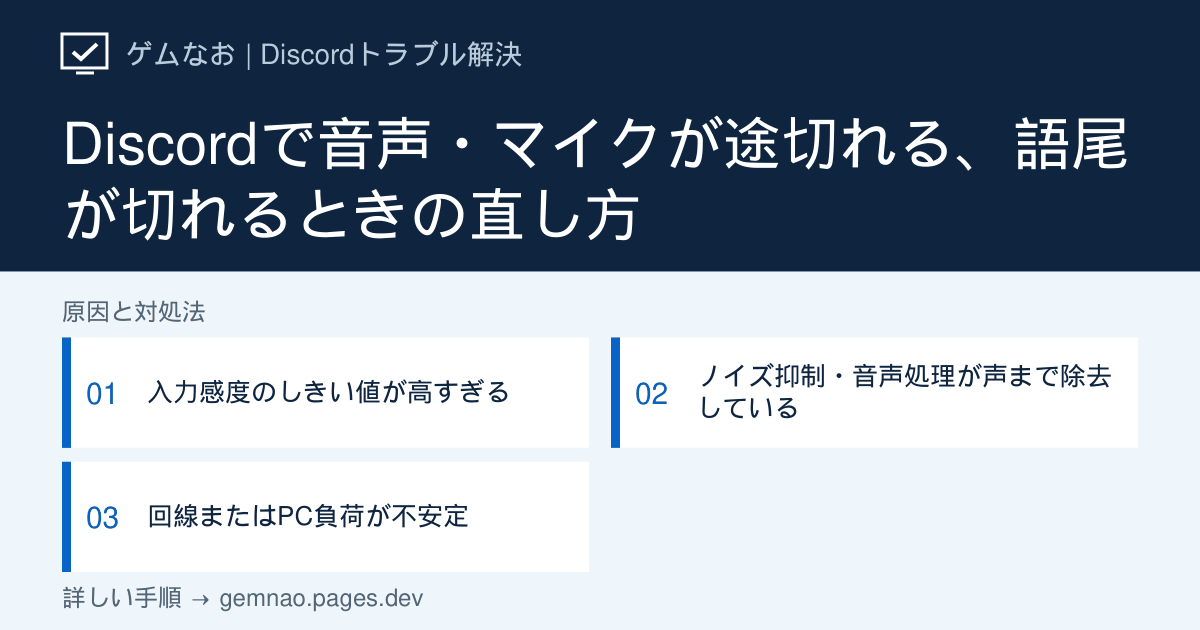
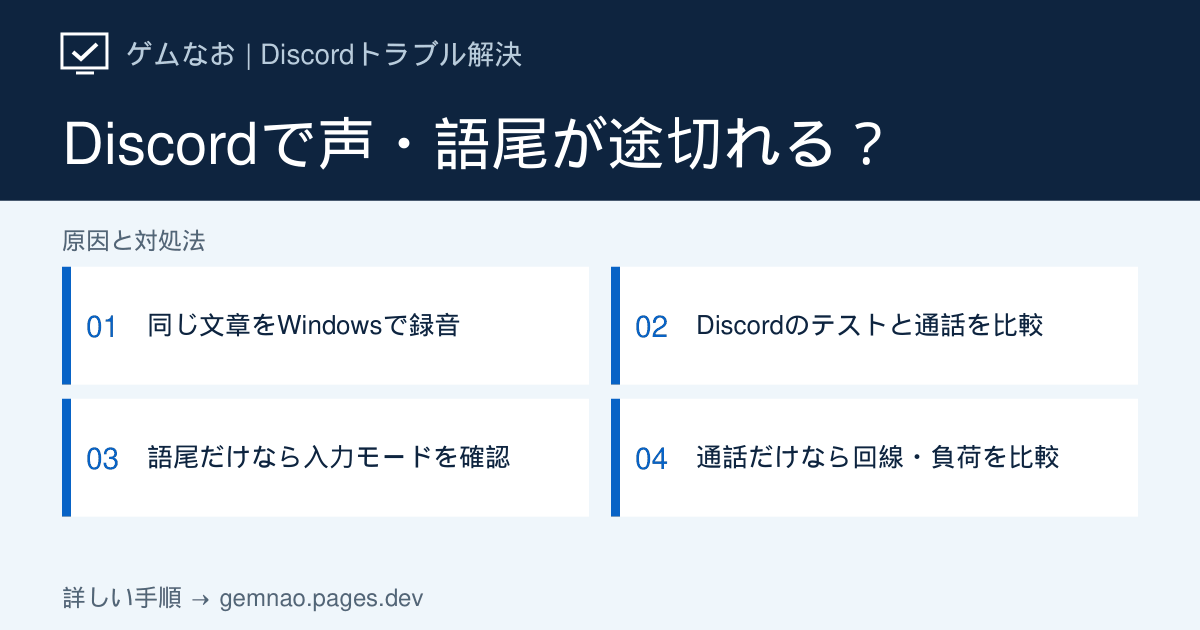
Rewrite Discord voice cutting out guide with comparison steps

diff --git a/lib/discord-audio-growth-articles.ts b/lib/discord-audio-growth-articles.ts
@@ -199,25 +199,100 @@ export const discordAudioGrowthArticles: DiscordArticle[] = [
   },
   {
     slug: 'voice-cutting-out', category: 'audio',
-    title: 'Discordで音声・マイクが途切れる、語尾が切れるときの直し方',
+    title: 'Discordで音声・マイクが途切れる時の直し方【語尾・ゲーム中の症状別】',
     shortTitle: '音声・マイク・語尾が途切れる',
-    seoTitle: 'Discordで音声・マイクが途切れる、語尾が切れる時の対処法',
-    metaDescription: 'Discordで声が途切れる、マイクの語尾が切れる場合の対処法。入力感度、ノイズ抑制、回線、CPU負荷を順番に切り分けます。',
-    symptom: '話し始めや語尾が消える、長く話すと声が断続的に切れる、ゲーム中だけ相手へ声が届かなくなる場合の手順です。',
-    target: 'Windows版 Discordデスクトップアプリ',
-    conclusion: '入力感度を手動調整してマイクテストを行い、ノイズ抑制を切り替えます。続く場合は回線とPC負荷を確認してください。',
-    quickFixes: ['入力感度の自動調整を切り、手動で下げてテストする', 'ノイズ抑制・エコー除去を一つずつ切り替える', '有線接続で試し、PCのCPU使用率を確認する'],
+    seoTitle: 'Discordで音声・マイクが途切れる原因と直し方｜語尾が切れる場合も',
+    metaDescription: 'Discordの声や語尾が途切れる時は、Windows録音・マイクテスト・実際の通話を比較。入力感度の調整目安、ノイズ抑制、プッシュトゥトーク、ゲーム中だけ切れる場合の確認手順を解説します。',
+    symptom: '話し始めや語尾だけ消える、声がぶつぶつ切れる、ゲーム中だけ自分の声が相手に届かない場合の手順です。まず同じマイク・同じ文章で録音と通話を比べ、どこから途切れるかを確認します。',
+    target: 'Windows 11／Windows 10のDiscordデスクトップアプリ',
+    conclusion: 'Windowsの録音でも途切れるならマイクやWindows側、録音は正常でDiscordのテストから切れるなら入力設定を先に確認します。テストは正常なのに通話だけ切れる場合は、誰に途切れて聞こえるかと回線・ゲーム負荷を比較。語尾だけ切れる場合も、音声検出とプッシュトゥトークでは調整する項目が違います。',
+    quickFixes: [
+      '同じマイクで「今日は音声の確認をしています」と録音し、話し始めと語尾が残るか聞く',
+      'Discordのマイクテストでも同じ文章を話し、テストを終了してから通話相手に聞いてもらう',
+      '録音・テスト・通話のどこから切れるかを判定表で確認し、該当する設定だけ変更する',
+    ],
+    diagnosisTitle: '録音・マイクテスト・通話の結果で選ぶ判定表',
+    diagnosisIntro: '同じマイクと口元の距離で比較します。テストが正常でも、実際の通話品質が正常とは限りません。最終確認は通話相手に依頼してください。',
+    diagnosis: [
+      { symptom: 'Windowsの録音から声が途切れる', check: '別のUSB端子・別マイクでも録音が切れる？', causeIndex: 2 },
+      { symptom: '録音は正常／音声検出で小声や語尾だけ切れる', check: '入力感度を調整すると語尾まで届く？', causeIndex: 3 },
+      { symptom: '録音は正常／Discordで声が不規則に欠ける', check: 'ノイズ抑制を1項目だけ変えて比較', causeIndex: 4 },
+      { symptom: 'プッシュトゥトークでキーを離すと語尾が切れる', check: '話し終わるまで押すと届く？', causeIndex: 3 },
+      { symptom: '録音・テストは正常／通話やゲーム中だけ切れる', check: '全員に切れるか、1人だけかを確認', causeIndex: 5 },
+    ],
     causes: [
-      { title: '入力感度のしきい値が高すぎる', description: '小さい声や語尾を無音と判定すると途中で切れます。', actions: ['「音声・ビデオ」で入力感度を確認する', '自動調整をオフにしてしきい値を少し下げる', 'マイクテストで話し始めと語尾を確認する'] },
-      { title: 'ノイズ抑制・音声処理が声まで除去している', description: '環境や声質によって音声処理が強く働く場合があります。', actions: ['ノイズ抑制を一時的にオフにする', 'エコー除去や自動ゲイン制御を一つずつ切り替える', '変更ごとに通話相手へ確認する'] },
-      { title: '回線またはPC負荷が不安定', description: 'パケット損失やCPU高負荷でも音声が断続的になります。', actions: ['有線LANまたは別回線で比較する', 'ダウンロードとクラウド同期を止める', 'タスクマネージャーでCPU使用率を確認する'] },
+      {
+        title: '同じ文章を録音・テスト・通話で比較する',
+        description: '先に音声の入口をそろえると、別のマイクを比較してしまう失敗を避けられます。ここでは通話で自分が話す声を対象にします。',
+        actions: [
+          'Windowsの「設定 → システム → サウンド → 入力」で使うマイク名を確認する。Discord左下の歯車 →「音声・ビデオ」でも同じ入力デバイスを選ぶ',
+          'スタートで「サウンド レコーダー」（Windows 10では「ボイス レコーダー」）を検索して開く。アプリ側でも使用マイクを確認し、録音ボタンで「今日は音声の確認をしています」と普段の声で3回話す',
+          '録音を止めて再生し、最初の「今日は」と最後の「います」が欠けていないか確認する。録音から切れるなら手順2へ',
+          'Discordの「音声・ビデオ」の音声設定からマイクテストを開始し、同じ文章を同じ距離で話す。終わったら「テストを中止」を押す',
+          '実際の通話で同じ文章を話し、相手に欠けた言葉を教えてもらう。録音／テスト／通話の各結果を「正常」「語尾だけ」「全体が断続的」のように記録する',
+        ],
+        note: 'Discord公式によるとマイクテスト中は通話で自動的にミュート・スピーカーミュートになります。通話での比較はテスト終了後に行います。',
+      },
+      {
+        title: 'Windows録音も切れる：接続と使用マイクを確認',
+        description: 'この段階ではDiscordだけの問題とは考えにくく、マイク、接続、Windowsの音声処理、PC負荷を順に比較します。',
+        actions: [
+          'USBマイクはハブを外してPCの別のUSB端子へ直接接続する。ヘッドセットは端子の緩みと本体ミュートを確認する',
+          '入力機器名を確認し直し、同じ文章を再録音する。改善すれば、その接続でDiscord通話も比較する',
+          '別のマイクを使えるなら同じ録音を行う。別マイクだけ正常なら元の機器・接続・専用ソフトを確認し、両方切れるならPC負荷やWindows側を調べる',
+          '機器メーカーの更新案内を確認する。ゲームや録画を閉じると録音が正常になる場合は、手順5で負荷を比較する',
+        ],
+      },
+      {
+        title: '語尾だけ切れる：入力モードに合う項目を調整',
+        description: '音声検出は一定以上の音を送信し、プッシュトゥトークはキーを押している間に送信します。まず「音声・ビデオ」の入力モードを確認してください。',
+        actions: [
+          '音声検出の場合は、現在の状態を控え「入力感度を自動調整」をオフにして手動のスライダーを表示する',
+          '数秒黙った時の背景音と、小さめの声で語尾まで話した時のメーターを見比べる。背景音では送信せず、小声では送信する位置に境界を調整する',
+          '語尾が切れる場合は境界を低い音量側へ少しずつ移す。数値が表示される場合、－50dBから－60dBは小さい音も拾いやすくする方向。数値は操作例であり推奨固定値ではない',
+          'プッシュトゥトークの場合は、話し始める前から語尾を言い終わるまでキーを押し続ける。キーを離した直後だけ切れるなら、解除後に送信を止めるまでの遅延設定を少し延ばして比べる',
+          '変更ごとに同じ文章を通話で話す。語尾が届いても環境音を拾い続けるなら感度を戻し、マイクを口元へ近づけて再調整する',
+        ],
+        note: '感度は音量そのものを大きくする設定ではありません。声全体が小さい場合は関連記事「マイク・自分の声が小さい」へ進んでください。',
+      },
+      {
+        title: 'Discordだけ欠ける：ノイズ抑制を1項目ずつ比較',
+        description: '声と背景音の分離がうまくいかない場合は、音声処理の変更前後を比べます。複数の設定を一度に変えないことが判断のポイントです。',
+        actions: [
+          'Discord左下の歯車 →「音声・ビデオ」→音声設定でノイズ抑制の現在値を控え、一時的にオフにする',
+          '同じ文章をマイクテストで確認し、テストを終了して通話相手にも聞いてもらう。改善したらその設定だけを変更した状態で会話を続けて確かめる',
+          '変化がなければノイズ抑制を元に戻す。エコー除去や自動ゲイン制御が表示される場合も、1項目ずつ同じ方法で比較する',
+          '音声加工ソフトを使っているなら、Discordで物理マイクを直接選んで再比較する。直接選択で直るなら加工ソフト側の音声処理を確認する',
+        ],
+        note: 'エコー除去を切る比較はイヤホンやヘッドホンで行い、相手へ声が反響するようなら元に戻してください。',
+      },
+      {
+        title: '通話・ゲーム中だけ切れる：相手と回線・負荷を比較',
+        description: 'マイクテストはインターネット通話全体の検査ではありません。通話で聞く人の環境や、ゲーム中の条件も含めて比較します。',
+        actions: [
+          '可能なら別の参加者にも同じ発言を聞いてもらう。1人だけ途切れて聞こえるなら、その相手にも通話への再参加・Discord再起動・別回線での比較を依頼する',
+          '全員に途切れて聞こえるなら、自分のダウンロードやクラウド同期を止めて再比較する。Wi-Fiなら可能な範囲で有線または別回線も試す',
+          'ゲーム中だけなら、ゲームを閉じた通話と起動中の通話を比較する。Ctrl＋Shift＋Esc → タスクマネージャーの「パフォーマンス」でCPUなどが起動中だけ高止まりするか確認する',
+          '録画や不要なアプリを1つずつ閉じて会話を比較する。CPU使用率だけで原因を決めず、処理を止めた時に音切れも改善するかを見る',
+          'プッシュトゥトークがゲーム中だけ反応しない場合は、キー重複や権限差を確認し、関連記事「システムヘルパー」へ。ボイスチャンネルから退出してしまう場合は「通話が切れる・落ちる」へ進む',
+        ],
+      },
     ],
-    ifNotFixed: 'Windowsの録音でも途切れる場合はマイク・USB接続・ドライバー側です。Discordだけなら音声設定をリセットして入力機器を選び直してください。',
+    ifNotFixed: '録音・マイクテスト・実通話の結果、切れる言葉、入力モード、マイク名、ゲーム起動の有無、設定変更前後の差を控えてください。音声設定のリセットを試す場合は、入力／出力機器、音量、キー割り当てを先に記録し、リセット後に選び直して同じ文章で確認します。',
     faqs: [
-      { question: '語尾だけ切れる原因は何ですか？', answer: '入力感度のしきい値またはノイズ抑制が、弱くなった語尾を無音と判断している可能性があります。' },
-      { question: 'ゲーム中だけ途切れます', answer: 'ゲームによるCPU負荷、キー割り当て、回線使用量を確認してください。プッシュトゥトークの場合はシステムヘルパーの記事も参照してください。' },
+      { question: '入力感度は何dBにすればよいですか？', answer: 'すべてのマイクに共通する正解はありません。黙った時は送信せず、普段の小さい声や語尾は送信できる位置に調整します。境界を下げすぎるとキーボード音なども送信し続ける場合があります。' },
+      { question: 'マイクテストは正常なのに通話だけ途切れます', answer: 'テストだけでは通話相手までの通信や相手の受信状態は確認できません。別の参加者にも聞いてもらい、全員に切れるなら自分側、1人だけならその相手側の回線や負荷も比較します。' },
+      { question: 'プッシュトゥトークでも入力感度を下げますか？', answer: 'まずキーを押している時間を確認します。話し終わる前に離しているなら語尾まで押し続け、離した直後の切れ方は解除後の送信遅延で比較します。音声検出のしきい値とは別の確認です。' },
+      { question: '録音では正常でも、マイクが故障している可能性はありますか？', answer: '1回正常に録音できただけでは断続的な接触不良などを除外できません。切れる時と同じ接続・距離・ゲーム起動条件で繰り返し比べ、別端子や別マイクで変わるかを確認してください。' },
     ],
-    sources: [voiceGuide, micTest], related: ['mic-not-working', 'mic-volume-low', 'system-helper'], checkedAt: '2026-09-19', status: 'verified',
+    sources: [voiceGuide, micTest,
+      { label: 'Discord公式：音声検出・入力感度・プッシュトゥトーク（英語）', url: 'https://support.discord.com/hc/en-us/articles/211376518-Voice-Input-Modes-101-Push-to-Talk-Voice-Activated' },
+      { label: 'Microsoft公式：Windowsのサウンドレコーダー', url: 'https://support.microsoft.com/ja-jp/windows/apps/sound-recorder-app-for-windows-faq' },
+    ],
+    related: ['mic-volume-low', 'mic-not-working', 'call-disconnects', 'system-helper'],
+    checkedAt: '2026-09-28', status: 'verified',
+    ogTitle: 'Discordで声・語尾が途切れる？',
+    ogSteps: ['同じ文章をWindowsで録音', 'Discordのテストと通話を比較', '語尾だけなら入力モードを確認', '通話だけなら回線・負荷を比較'],
   },
   {
     slug: 'bluetooth-audio-problem',

diff --git a/lib/og-image-manifest.ts b/lib/og-image-manifest.ts
@@ -33,7 +33,7 @@ export const ogImageManifest: Record<string, string> = {
   "/discord/update-failed": "45c152bc",
   "/discord/user-volume-low": "47ca5d40",
   "/discord/voice-client-outdated": "9940ed57",
-  "/discord/voice-cutting-out": "89f41b0a",
+  "/discord/voice-cutting-out": "e483fd4c",
   "/games/aniimo": "30fe6a2d",
   "/games/aniimo/black-screen": "d4ce40f0",
   "/games/aniimo/launcher-display": "60776225",
